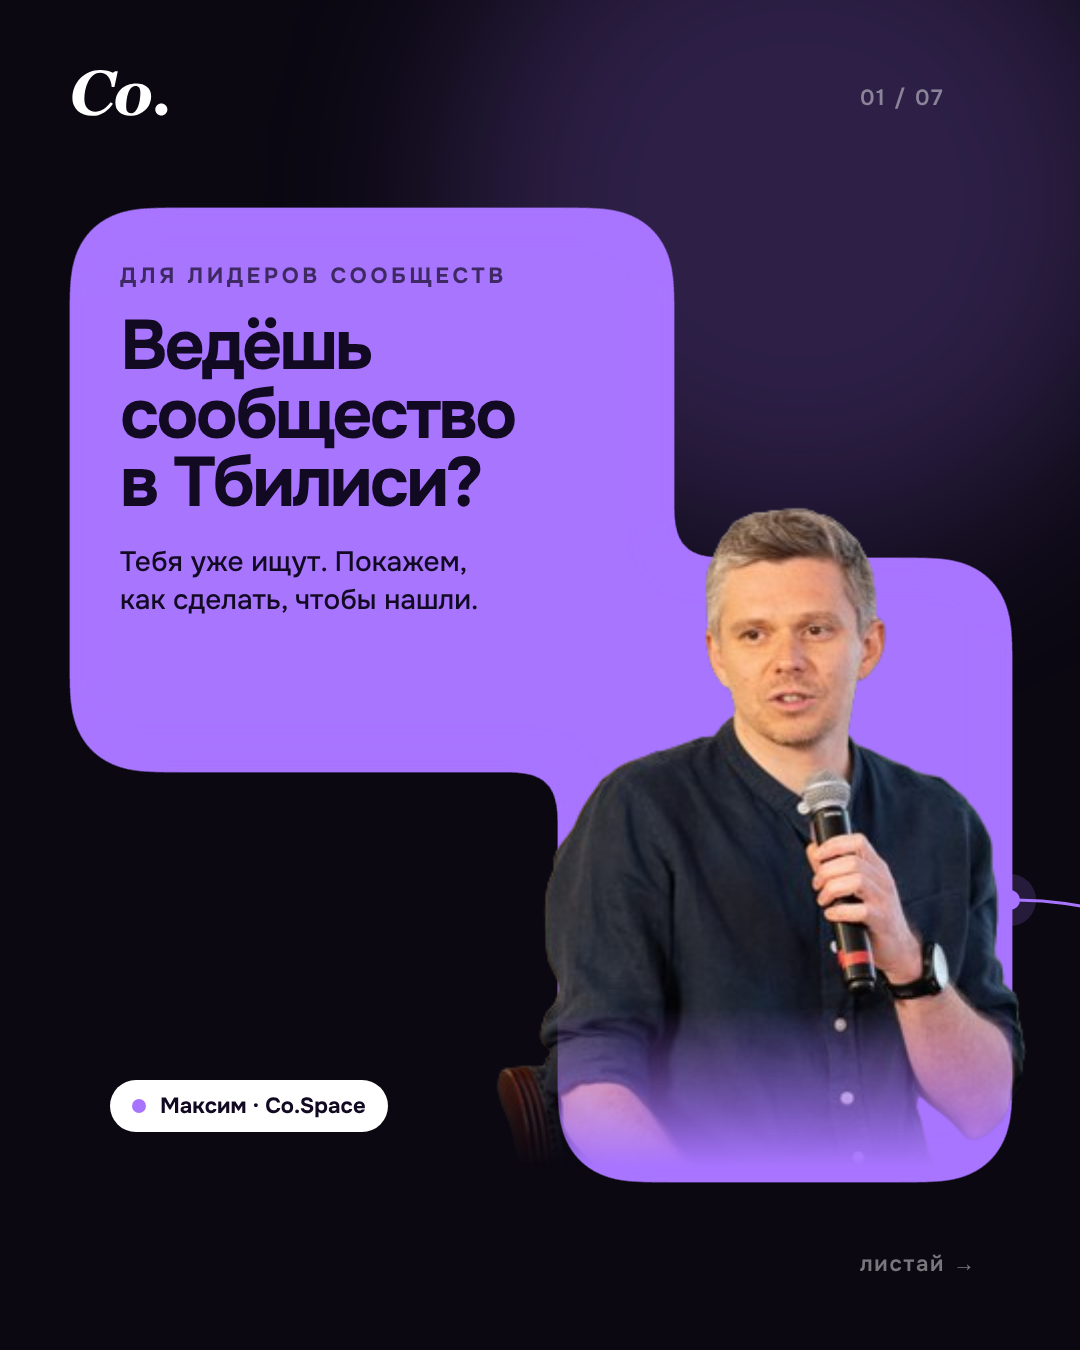
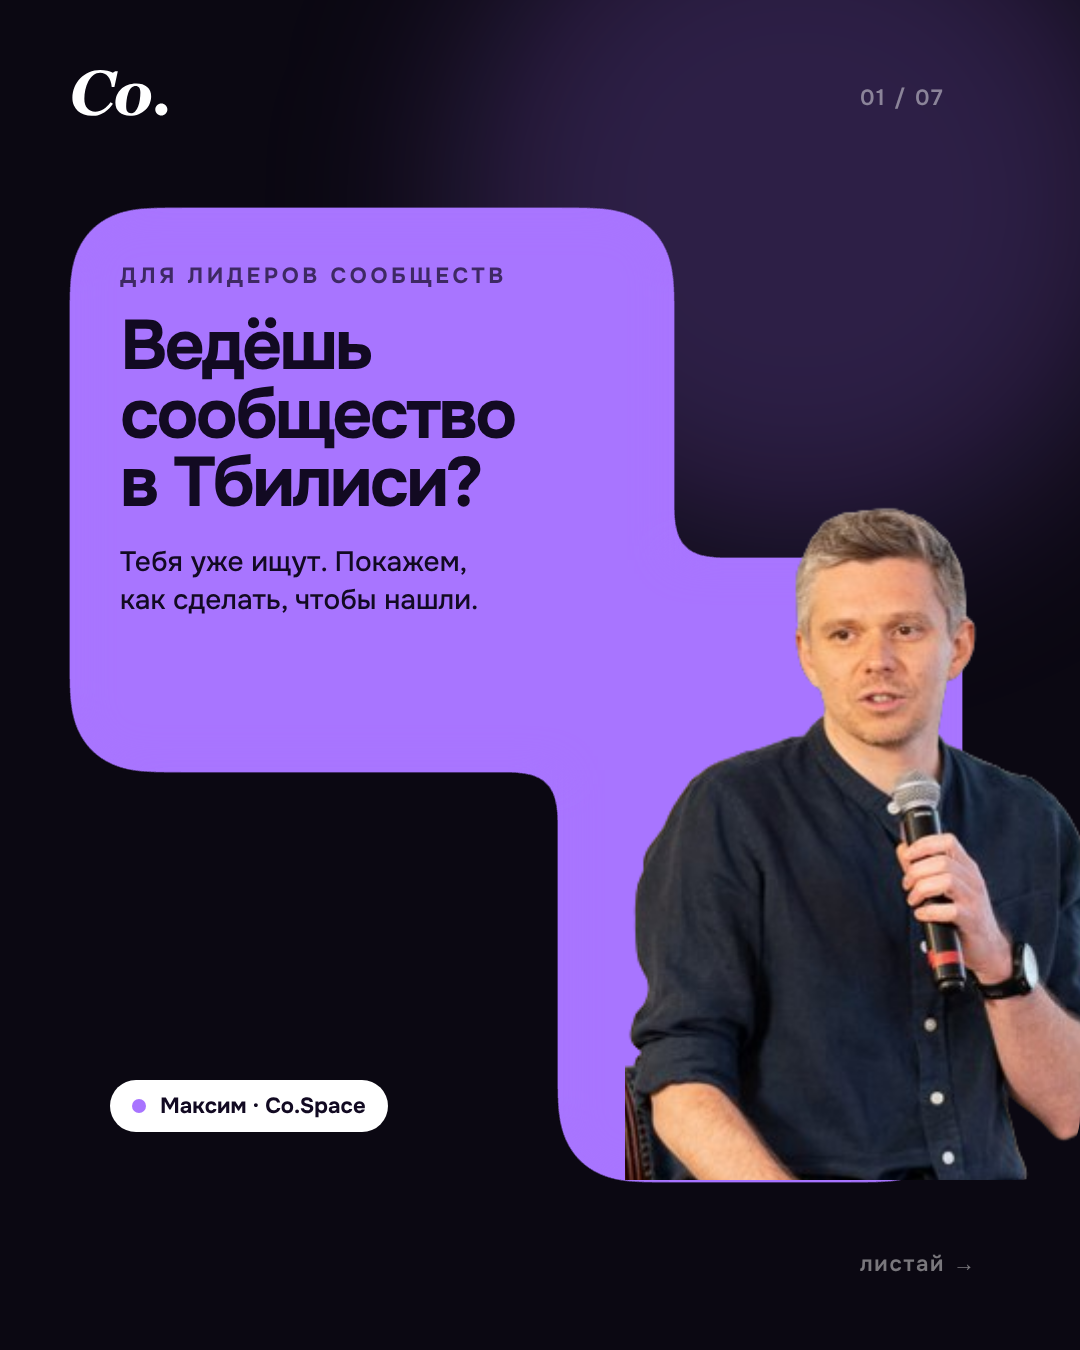
Слайд 1: Макс без растушёвки, чёткая обрезка по плашке
Claude-Session: https://claude.ai/code/session_01EUhV7vaX3V2s8FuVCAhgM5

Changed region(s): [[0.4583, 0.3733, 1.0, 0.9022]]

diff --git a/creatives/src/poster/wide/leaders.html b/creatives/src/poster/wide/leaders.html
@@ -24,10 +24,10 @@ body{font-family:'Onest',sans-serif;background:#0B0812;color:#fff;position:relat
 .bot{background:#262033;border-bottom-left-radius:8px}
 .btn{display:block;text-align:center;border:1.5px solid #A874FF;color:#D7C2FF;border-radius:14px;padding:12px;font-size:22px;font-weight:700;margin-top:10px}
 .ava{width:84px;height:84px;border-radius:50%;border:3px solid #A874FF;background-size:cover;background-color:#2a2238}
-</style></head><body><div class="glow" style="left:450px;top:-150px;width:700px;height:700px"></div><div class="glow" style="left:2200px;top:700px;width:800px;height:800px"></div><div class="glow" style="left:4350px;top:-50px;width:700px;height:700px"></div><div class="glow" style="left:6500px;top:500px;width:800px;height:800px"></div><svg class="a" style="left:0;top:0;z-index:3" width="7560" height="1350"><path d="M1010,900 C1350,900 1380,1260 1780,1260 C2120,1260 2080,660 2420,640 C2900,610 3338,250 3338,560 L3338,1010 C3338,1230 3800,1250 4250,1230 C4700,1210 4800,250 5250,230 C5800,210 6300,120 7020,112" stroke="#A874FF" stroke-width="3" fill="none" stroke-linecap="round"/><circle cx="1010" cy="900" r="26" fill="#A874FF" opacity=".18"/><circle cx="1010" cy="900" r="10" fill="#A874FF"/><circle cx="1780" cy="1260" r="26" fill="#A874FF" opacity=".18"/><circle cx="1780" cy="1260" r="10" fill="#A874FF"/><circle cx="2420" cy="640" r="26" fill="#A874FF" opacity=".18"/><circle cx="2420" cy="640" r="10" fill="#A874FF"/><circle cx="4250" cy="1230" r="26" fill="#A874FF" opacity=".18"/><circle cx="4250" cy="1230" r="10" fill="#A874FF"/><circle cx="5250" cy="230" r="26" fill="#A874FF" opacity=".18"/><circle cx="5250" cy="230" r="10" fill="#A874FF"/><circle cx="7020" cy="112" r="26" fill="#A874FF" opacity=".18"/><circle cx="7020" cy="112" r="10" fill="#A874FF"/></svg><svg class="a" style="left:0;top:0;z-index:2" width="7560" height="1350"><defs><filter id="goo"><feGaussianBlur in="SourceGraphic" stdDeviation="22"/><feColorMatrix values="1 0 0 0 0  0 1 0 0 0  0 0 1 0 0  0 0 0 36 -16"/></filter></defs><g filter="url(#goo)"><rect x="72" y="210" width="600" height="560" rx="64" fill="#A874FF"/><rect x="560" y="560" width="450" height="620" rx="64" fill="#A874FF"/></g></svg><div class="a" style="left:120px;top:262px;width:500px;z-index:5;color:#120A22">
+</style></head><body><div class="glow" style="left:450px;top:-150px;width:700px;height:700px"></div><div class="glow" style="left:2200px;top:700px;width:800px;height:800px"></div><div class="glow" style="left:4350px;top:-50px;width:700px;height:700px"></div><div class="glow" style="left:6500px;top:500px;width:800px;height:800px"></div><svg class="a" style="left:0;top:0;z-index:3" width="7560" height="1350"><path d="M1010,900 C1350,900 1380,1260 1780,1260 C2120,1260 2080,660 2420,640 C2900,610 3338,250 3338,560 L3338,1010 C3338,1230 3800,1250 4250,1230 C4700,1210 4800,250 5250,230 C5800,210 6300,120 7020,112" stroke="#A874FF" stroke-width="3" fill="none" stroke-linecap="round"/><circle cx="1010" cy="900" r="26" fill="#A874FF" opacity=".18"/><circle cx="1010" cy="900" r="10" fill="#A874FF"/><circle cx="1780" cy="1260" r="26" fill="#A874FF" opacity=".18"/><circle cx="1780" cy="1260" r="10" fill="#A874FF"/><circle cx="2420" cy="640" r="26" fill="#A874FF" opacity=".18"/><circle cx="2420" cy="640" r="10" fill="#A874FF"/><circle cx="4250" cy="1230" r="26" fill="#A874FF" opacity=".18"/><circle cx="4250" cy="1230" r="10" fill="#A874FF"/><circle cx="5250" cy="230" r="26" fill="#A874FF" opacity=".18"/><circle cx="5250" cy="230" r="10" fill="#A874FF"/><circle cx="7020" cy="112" r="26" fill="#A874FF" opacity=".18"/><circle cx="7020" cy="112" r="10" fill="#A874FF"/></svg><svg class="a" style="left:0;top:0;z-index:2" width="7560" height="1350"><defs><filter id="goo"><feGaussianBlur in="SourceGraphic" stdDeviation="22"/><feColorMatrix values="1 0 0 0 0  0 1 0 0 0  0 0 1 0 0  0 0 0 36 -16"/></filter></defs><g filter="url(#goo)"><rect x="72" y="210" width="600" height="560" rx="64" fill="#A874FF"/><rect x="560" y="560" width="400" height="620" rx="64" fill="#A874FF"/></g></svg><div class="a" style="left:120px;top:262px;width:500px;z-index:5;color:#120A22">
 <div class="kick" style="color:#120A22;opacity:.7">Для лидеров сообществ</div>
 <div class="h" style="font-size:70px;margin-top:22px">Ведёшь<br>сообщество<br>в Тбилиси?</div>
-<div style="font-size:28px;line-height:1.35;margin-top:26px;font-weight:500">Тебя уже ищут. Покажем,<br>как сделать, чтобы нашли.</div></div><div class="cut" style="left:455px;top:430px;width:625px;height:760px;overflow:hidden;z-index:4;-webkit-mask-image:linear-gradient(180deg,#000 76%,transparent 97%)"><img src="../max_stage_cut.png" style="height:1560px"></div><div class="a" style="left:110px;top:1080px;z-index:6"><span class="pillw" style="font-size:22px;padding:12px 22px"><i></i>Максим · Co.Space</span></div><div class="a" style="left:1152px;top:210px;z-index:5"><div class="kick">Что происходит</div>
+<div style="font-size:28px;line-height:1.35;margin-top:26px;font-weight:500">Тебя уже ищут. Покажем,<br>как сделать, чтобы нашли.</div></div><div class="cut" style="left:545px;top:430px;width:535px;height:750px;overflow:hidden;z-index:4;clip-path:path('M80,0 H535 V686 A64,64 0 0 1 471,750 H80 Z')"><img src="../max_stage_cut.png" style="height:1560px"></div><div class="a" style="left:110px;top:1080px;z-index:6"><span class="pillw" style="font-size:22px;padding:12px 22px"><i></i>Максим · Co.Space</span></div><div class="a" style="left:1152px;top:210px;z-index:5"><div class="kick">Что происходит</div>
 <div class="h" style="font-size:80px;margin-top:22px">Люди переезжают<br>и ищут <em>своих</em></div></div><div class="a glass" style="left:1152px;top:560px;width:936px;padding:34px 40px;z-index:5">
 <div style="display:flex;align-items:center;gap:18px;font-size:32px;font-weight:600;padding-bottom:26px;border-bottom:1.5px solid rgba(255,255,255,.08)">
 <svg width="34" height="34" viewBox="0 0 24 24" fill="none" stroke="#A874FF" stroke-width="2.4"><circle cx="11" cy="11" r="7"/><path d="M20 20l-4-4"/></svg>книжный клуб тбилиси</div>

diff --git a/creatives/src/poster/build_wide.py b/creatives/src/poster/build_wide.py
@@ -86,13 +86,13 @@ for gx, gy, gr in [(800, 200, 700), (2600, 1100, 800), (4700, 300, 700), (6900, 
 els.append(line())
 
 # ---------- 1. Обложка ----------
-els.append(blob([(72, 210, 600, 560), (560, 560, 450, 620)]))
+els.append(blob([(72, 210, 600, 560), (560, 560, 400, 620)]))
 els.append(f'''<div class="a" style="left:120px;top:262px;width:500px;z-index:5;color:{INK}">
 <div class="kick" style="color:{INK};opacity:.7">Для лидеров сообществ</div>
 <div class="h" style="font-size:70px;margin-top:22px">Ведёшь<br>сообщество<br>в Тбилиси?</div>
 <div style="font-size:28px;line-height:1.35;margin-top:26px;font-weight:500">Тебя уже ищут. Покажем,<br>как сделать, чтобы нашли.</div></div>''')
-els.append('<div class="cut" style="left:455px;top:430px;width:625px;height:760px;overflow:hidden;z-index:4;'
-           '-webkit-mask-image:linear-gradient(180deg,#000 76%,transparent 97%)"><img src="../max_stage_cut.png" style="height:1560px"></div>')
+els.append('<div class="cut" style="left:545px;top:430px;width:535px;height:750px;overflow:hidden;z-index:4;'
+           'clip-path:path(\'M80,0 H535 V686 A64,64 0 0 1 471,750 H80 Z\')"><img src="../max_stage_cut.png" style="height:1560px"></div>')
 els.append(f'<div class="a" style="left:110px;top:1080px;z-index:6"><span class="pillw" style="font-size:22px;padding:12px 22px"><i></i>Максим · Co.Space</span></div>')
 
 # ---------- 2. Проблема ----------
